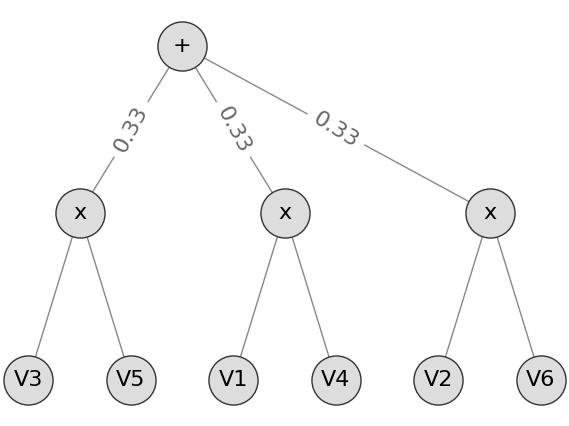
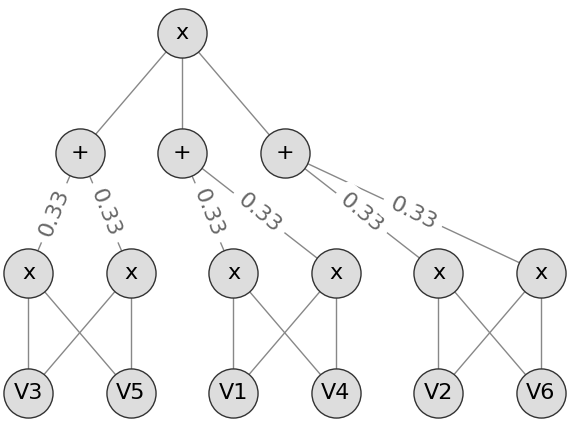
Update report

diff --git a/reports/few-train-samples/report.md b/reports/few-train-samples/report.md
@@ -24,7 +24,8 @@ where the _SPN Layer_ (with dimensions *d\_in* and *d\_out*) is defined as follo
 - Each SPN has *d\_in* inputs and is defined as follows:
   - **Leaf Layer**: Each input is modeled with a single Gaussian
   - **Product Layer**: Select random pairs of leafs and model independencies via a product node
-  - **Sum Node (Root)**: Sum over all previous products
+  - **Sum Layer**: Sum over all previous products with same scope
+  - **Product Node (Root)**: Product over all mixtures
 
 Example visualization with 6 input variables and a random selection of independencies:
 
@@ -40,7 +41,40 @@ The experimental setup was as follows:
 - Batch size always 1/10 of current number of training samples (w.r.t. *p*)
 - Initial learning rate of 0.01
 - Halven the learning rate after 25 epochs
+- Different activations after the SPN
 
 ## Results
 
-<img src="./result.png" width="600">
+### No Activation
+
+- Using no activation function at all, the output of the SPNs is in `[-inf, 0]` which seems to be problematic for the training process
+
+<img src="./result-no-act.png" width="600">
+
+
+### Custom Activation #1
+- The idea is to squash the activations from `[-inf, 0]` to `[0, inf]` where the upper bound is << `inf`
+
+```
+x = log(-x)     # Squash from [-inf,0] to [0, inf] where the upper bound is way lower than the lower bound before due to the log 
+x = max(x) - x  # Invert the activations w.r.t. the maximum activation -> high activation = high probability
+```
+
+<img src="./result-1.png" width="600">
+
+### Custom Activation #2
+- Same idea as #1
+```
+x = -1 * log(-x)
+```
+
+<img src="./result-2.png" width="600">
+
+### Custom Activation #3
+- Same as #3 but with additional batchnorm
+```
+x = -1 * log(-x)
+x = BatchNorm(x)
+```
+
+<img src="./result-2-bn.png" width="600">
